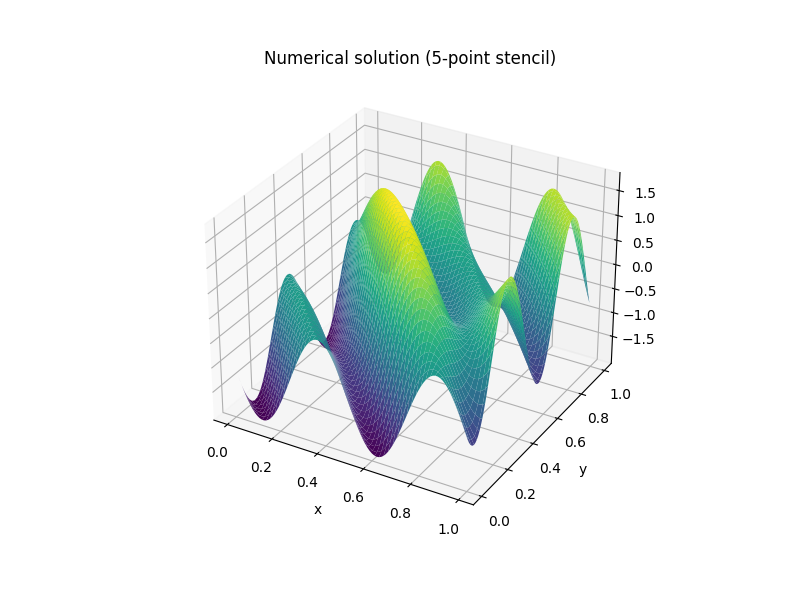
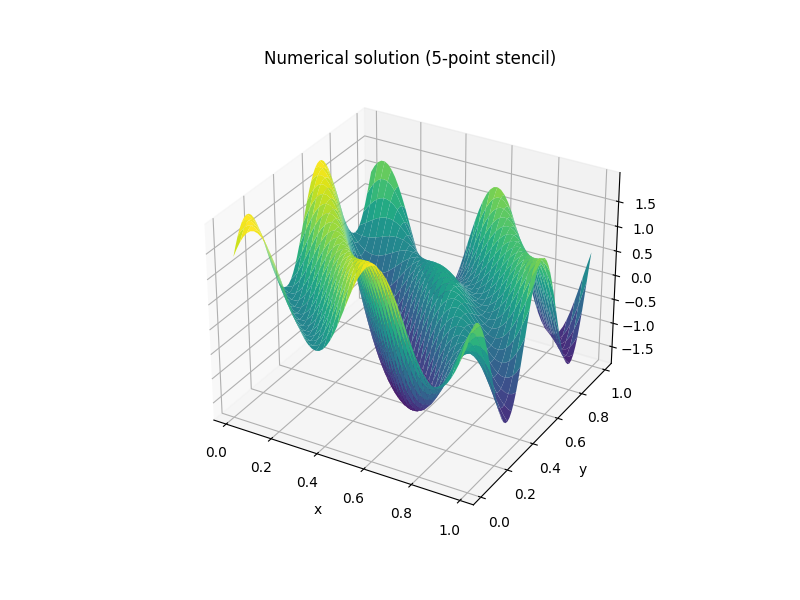
fix

diff --git a/a1/cvn/vcycle.py b/a1/cvn/vcycle.py
@@ -1,0 +1,113 @@
+import numpy as np
+import matplotlib.pyplot as plt
+
+
+# exact solution and RHS
+def u(x, y):
+    return np.exp(np.pi * x) * np.sin(np.pi * y) + 0.5 * (x * y) ** 2
+
+
+def f(x, y):
+    return x**2 + y**2
+
+
+def main():
+    m = 2**6 - 1
+    U = np.zeros(m * m)
+    F = form_rhs(m, f, u)   # TODO: Form the right-hand side
+    epsilon = 1.0e-10
+    omega = 2.0 / 3.0       # example value; set this as needed
+
+    for i in range(1, 101):
+        R = F + Amult(U, m)
+        rel_resid = np.linalg.norm(R, 2) / np.linalg.norm(F, 2)
+        print(f"*** Outer iteration: {i:3d}, rel. resid.: {rel_resid:e}")
+
+        if rel_resid < epsilon:
+            break
+
+        U = Vcycle(U, omega, 3, m, F)
+        plotU(m, U)
+        plt.pause(0.5)
+
+    plt.show()
+
+
+def Vcycle(U, omega, nsmooth, m, F):
+    """
+    Approximately solve: A * U = F
+    """
+    h = 1.0 / (m + 1)
+    l2m = np.log2(m + 1)
+
+    assert l2m == round(l2m)
+    assert len(U) == m * m
+
+    if m == 1:
+        # if we are at the coarsest level
+        # TODO: solve the only remaining equation directly!
+        Unew = U.copy()
+    else:
+        # 1. TODO: pre-smooth the error
+        #    perform <nsmooth> Jacobi iterations
+
+        # 2. TODO: calculate the residual
+
+        # 3. TODO: coarsen the residual
+
+        # 4. recurse to Vcycle on a coarser grid
+        mc = (m - 1) // 2
+        Ecoarse = Vcycle(np.zeros(mc * mc), omega, nsmooth, mc, -Rcoarse)
+
+        # 5. TODO: interpolate the error
+
+        # 6. TODO: update the solution given the interpolated error
+
+        # 7. TODO: post-smooth the error
+        #    perform <nsmooth> Jacobi iterations
+
+        Unew = U.copy()  # placeholder until TODOs are implemented
+
+    return Unew
+
+
+def plotU(m, U):
+    h = 1.0 / (m + 1)
+
+    # MATLAB:
+    # x=linspace(1/h,1-1/h,m);
+    # y=linspace(1/h,1-1/h,m);
+    #
+    # That looks like a typo in the MATLAB code.
+    # For an interior grid, this is almost certainly what was intended:
+    x = np.linspace(h, 1 - h, m)
+    y = np.linspace(h, 1 - h, m)
+
+    X, Y = np.meshgrid(x, y, indexing="xy")
+    Z = U.reshape((m, m)).T
+
+    fig = plt.figure(1)
+    fig.clf()
+    ax = fig.add_subplot(111, projection="3d")
+    ax.plot_surface(X, Y, Z)
+
+    ax.set_title("Computed solution")
+    ax.set_xlabel("x")
+    ax.set_ylabel("y")
+    ax.set_zlabel("U")
+
+
+# -------------------------------------------------------------------
+# Placeholder functions: these must be implemented by you
+# -------------------------------------------------------------------
+
+def form_rhs(m, f, u):
+    raise NotImplementedError("form_rhs(m, f, u) has not been implemented yet.")
+
+
+def Amult(U, m):
+    raise NotImplementedError("Amult(U, m) has not been implemented yet.")
+
+
+if __name__ == "__main__":
+    main()

diff --git a/a1/cvn/ex3_c.py b/a1/cvn/ex3_c.py
@@ -120,10 +120,10 @@ def two_grid_cycle(U, m, F, omega=2/3, nu1=3, nu2=3):
     """
     # pre-smoothing
     for _ in range(nu1):
-        U = fc_b.smooth(U, omega, m, F)
+        U = fc_b.smooth(U, omega, m, -F)
 
     # fine-grid residual: r = F - Δ_h U
-    r = F - fc_a.Amult(U, m)
+    r = F - (-fc_a.Amult(U, m))
 
     # restrict to coarse grid
     mc = (m - 1) // 2
@@ -159,7 +159,15 @@ def main():
     x = np.linspace(h, 1 - h, m)
     y = np.linspace(h, 1 - h, m)
     X, Y = np.meshgrid(x, y)
-
+    
+    fig = plt.figure(figsize=(8, 6))
+    ax = fig.add_subplot(111, projection='3d')
+    ax.plot_surface(X, Y, fc_a.u_exact(X, Y), cmap='viridis')
+    ax.set_title("Numerical solution (5-point stencil)")
+    ax.set_xlabel("x")
+    ax.set_ylabel("y")
+    plt.show()
+    
     U_exact = fc_a.u_exact(X, Y).ravel()
     F = fc_a.construct_b(m, fc_a.f_rhs, fc_a.u_exact)
 
